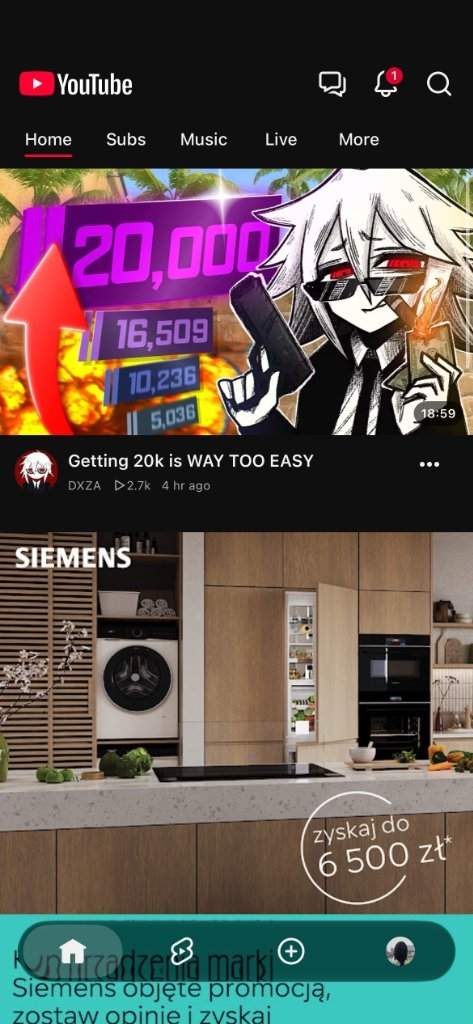
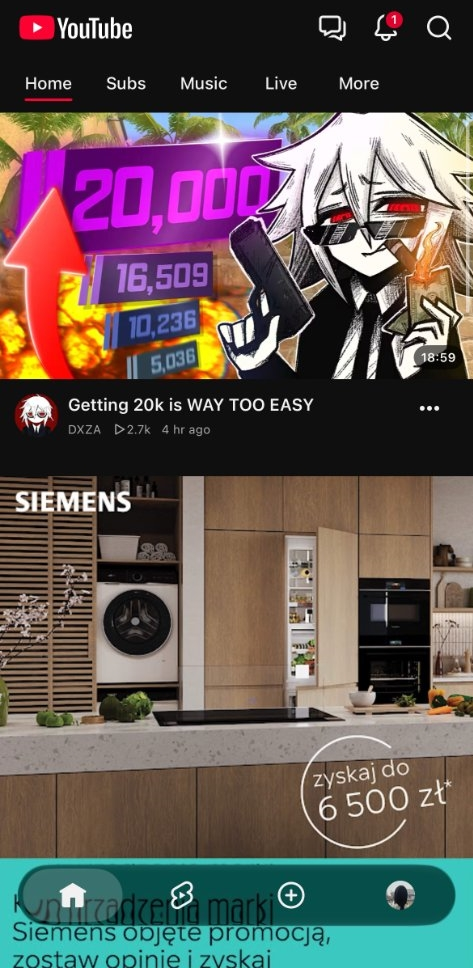
Fit youtube-full.jpg to exact 100% viewport height with top status bar cropped so bottom never clips

diff --git a/index.html b/index.html
@@ -452,10 +452,12 @@
       position: fixed;
       top: 0;
       left: 0;
+      right: 0;
+      bottom: 0;
       width: 100vw;
-      height: var(--full-screen-h, calc(100vh + env(safe-area-inset-bottom, 34px)));
+      height: 100%;
       z-index: 50;
-      background: url('youtube-full.jpg?v=18') no-repeat center top;
+      background: url('youtube-full.jpg?v=19') no-repeat center top;
       background-size: 100% 100%;
       opacity: 0;
       pointer-events: none;
@@ -469,10 +471,10 @@
 
     .yt-logo-hotspot {
       position: absolute;
-      top: 5.2%;
-      left: 2%;
-      width: 34%;
-      height: 5.8%;
+      top: 0%;
+      left: 1.5%;
+      width: 36%;
+      height: 6.5%;
       background: transparent;
       border: none;
       cursor: pointer;
